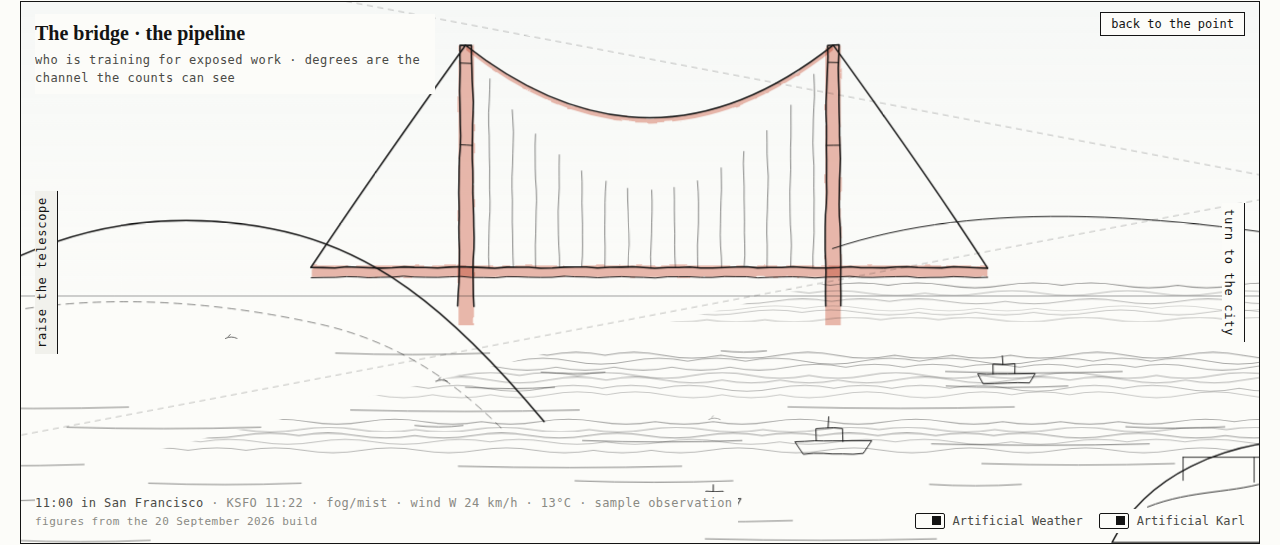
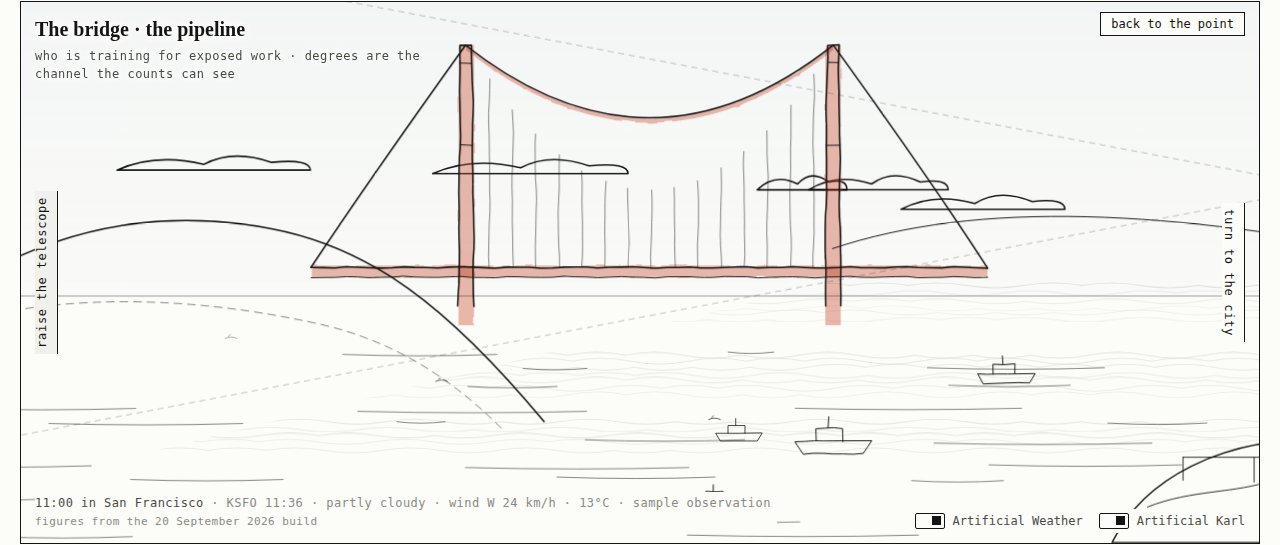
Front page: the city on the horizon, City Hall with the dome alone, the house behind it with trees in front, Sutro's legs the taller half, the car across the city front, boats in open water, the caption without its box, the sky to the top

diff --git a/docs/mockup/index.html b/docs/mockup/index.html
@@ -112,7 +112,8 @@ header.top{display:flex;align-items:baseline;justify-content:space-between;gap:1
 .stamp .obs{font-size:12px}
 .home{position:absolute;right:14px;top:10px;font-family:var(--mono);font-size:12px;background:var(--paper);border:1px solid var(--ink);color:var(--ink);padding:4px 10px;cursor:pointer}
 .home:hover{background:var(--wash)}
-.caption{position:absolute;left:14px;top:12px;max-width:min(48ch,62%);text-align:left;pointer-events:none;background:var(--paper);padding:4px 10px 7px 0}
+.caption{position:absolute;left:14px;top:12px;max-width:min(48ch,62%);text-align:left;pointer-events:none}
+.caption h1,.caption p{text-shadow:0 0 3px var(--paper),0 0 6px var(--paper),0 0 10px var(--paper),0 0 14px var(--paper)}
 .caption h1{font-family:var(--display);font-size:20px;font-weight:600;margin:0;color:var(--ink)}
 .caption p{font-family:var(--mono);font-size:12px;color:var(--ink-2);margin:3px 0 0;letter-spacing:.04em;line-height:1.5}
 
@@ -216,6 +217,7 @@ header.top{display:flex;align-items:baseline;justify-content:space-between;gap:1
     <svg class="pan" id="L-lights" viewBox="0 0 1600 700" aria-hidden="true" style="transform:translateX(-100%) scale(1)"><g id="lights" class="scene"></g></svg>
     <svg class="pan" id="L-water" viewBox="0 0 1600 700" aria-hidden="true" style="transform:translateX(-100%) scale(1)"><g class="scene"><g id="water" class="hair"></g><g id="fog" class="fog" mask="url(#fogmask)"></g></g></svg>
     <!-- foreground: the point, the lighthouse, the railing, the viewer at rest -->
+    <svg id="L-life" viewBox="0 0 1600 700" aria-hidden="true"><g id="life" class="life scene"></g></svg>
     <svg class="fg" id="L-fg" viewBox="0 0 1600 700" role="group" aria-label="An ink drawing of a lighthouse on a headland. Turn to the city or the bridge, or raise the coin telescope to look at the valley.">
       <g id="fg" class="scene">
         <path d="M560 700 C 600 620, 690 590, 760 585 C 830 580, 880 600, 930 610 C 980 620, 1040 660, 1060 700 Z" style="fill:var(--paper)"/>
@@ -256,7 +258,6 @@ header.top{display:flex;align-items:baseline;justify-content:space-between;gap:1
         <g class="viewer down" id="viewer-big"></g>
       </g>
     </svg>
-    <svg id="L-life" viewBox="0 0 1600 700" aria-hidden="true"><g id="life" class="life scene"></g></svg>
 
     <div class="caption" id="caption"><h1 id="cap-h">Three views from one point</h1><p id="cap-p">choose a view · the beam turns to it</p></div>
     <button class="edge left" id="edge-left" hidden><span></span></button>
@@ -317,7 +318,7 @@ header.top{display:flex;align-items:baseline;justify-content:space-between;gap:1
   const el = (tag, attrs={}, parent) => { const n = document.createElementNS(NS, tag); for (const k in attrs) n.setAttribute(k, attrs[k]); if (parent) parent.appendChild(n); return n; };
   function rng(seed){ let s = seed; return () => (s = (s * 16807) % 2147483647) / 2147483647; }
   const W = 4800, HOME = 1600;            // panorama width; the point sits in the middle third
-  const CH = 780, HYD = 1300;             // in the city third: City Hall's x, and the hydrant's on the shore
+  const CH = 780, HYD = 1150;             // in the city third: City Hall's x, and the hydrant's on the shore
 
   /* ---------- line work ---------- */
   function water(g, x0, x1, y0, y1, seed, dens){
@@ -364,7 +365,7 @@ header.top{display:flex;align-items:baseline;justify-content:space-between;gap:1
   function domePath(x, base, w, h){ return `M ${x-w/2} ${base} C ${x-w/2} ${base-h*0.9}, ${x-w/2+w*0.15} ${base-h}, ${x} ${base-h} C ${x+w/2-w*0.15} ${base-h}, ${x+w/2} ${base-h*0.9}, ${x+w/2} ${base} Z`; }
   function domeHalf(x, base, w, h, side){ const e = x + side*w/2, c = x + side*(w/2 - w*0.15); return `M ${e} ${base} C ${e} ${base-h*0.9}, ${c} ${base-h}, ${x} ${base-h} L ${x} ${base} Z`; }
   function cityhall(g, x, gy){
-    el("path", {d:`M ${x-60} ${gy} L ${x-60} ${gy-22} L ${x+60} ${gy-22} L ${x+60} ${gy}`}, g);
+    el("path", {d:`M ${x-60} ${gy} L ${x-60} ${gy-22} L ${x+60} ${gy-22} L ${x+60} ${gy} Z`, style:"fill:var(--paper)"}, g);
     for (let c=x-52; c<=x+52; c+=8) if (Math.abs(c-x) > 16) el("path", {d:`M${c} ${gy-4} L ${c} ${gy-18}`, class:"hair"}, g);
     el("path", {d:`M ${x-14} ${gy} L ${x-14} ${gy-26} L ${x} ${gy-32} L ${x+14} ${gy-26} L ${x+14} ${gy} M ${x-8} ${gy-4} L ${x-8} ${gy-22} M ${x} ${gy-4} L ${x} ${gy-24} M ${x+8} ${gy-4} L ${x+8} ${gy-22}`, class:"thin"}, g);
     el("path", {d:`M ${x-22} ${gy-22} L ${x-22} ${gy-44} L ${x+22} ${gy-44} L ${x+22} ${gy-22}`, class:"thin"}, g);
@@ -408,7 +409,7 @@ header.top{display:flex;align-items:baseline;justify-content:space-between;gap:1
 
   /* ---------- the three thirds ---------- */
   const far = $("#far"), washes = $("#washes"), waterG = $("#water"), fogG = $("#fog");
-  el("path", {d:`M 0 340 L ${W} 340`, class:"hair"}, waterG);
+  el("path", {d:`M 0 340 L ${HOME*2+30} 340`, class:"hair"}, waterG);   // the horizon, up to where the city stands on it
   const waterA = el("g", {class:"water"}, waterG), waterB = el("g", {class:"water b"}, waterG), waterC = el("g", {class:"water c"}, waterG);
   water(waterA, 0, W, 400, 690, 3, 58); water(waterB, 0, W, 416, 690, 4, 58); water(waterC, 0, W, 432, 690, 8, 58);
   // crests: short marks that surface and go, out of step with each other
@@ -430,7 +431,7 @@ header.top{display:flex;align-items:baseline;justify-content:space-between;gap:1
 
   // middle third: the far city as seen from the point (x 1600..3200), faint
   (function farCity(g, ox){
-    const s = el("g", {transform:`translate(${ox+1020},300) scale(.55)`, class:"thin"}, g);
+    const s = el("g", {transform:`translate(${ox+1020},207) scale(.55)`, class:"thin"}, g);
     skyline(s, 250, false); s.querySelectorAll("path").forEach(p=>{ p.classList.remove("hair"); p.classList.add("thin"); });
     // the Gate's near tower and the fall of its cable, at the left edge of the point's view
     el("path", {d:`M ${ox+40} 400 L ${ox+44} 150 L ${ox+62} 150 L ${ox+66} 400 M ${ox+40} 200 L ${ox+66} 200 M ${ox+42} 260 L ${ox+64} 260`, class:"thin"}, g);
@@ -446,8 +447,8 @@ header.top{display:flex;align-items:baseline;justify-content:space-between;gap:1
     const sx = ox+700, sy = baseY-118;
     // Sutro: three masts, the outer pair upright at the top, pinched to a waist, splayed to the feet, tied by struts
     const H = 100;
-    el("path", {d:`M${sx-14} ${sy-H} L ${sx-14} ${sy-H*0.62} L ${sx-5} ${sy-H*0.38} L ${sx-22} ${sy} M${sx} ${sy-H-8} L ${sx} ${sy} M${sx+14} ${sy-H} L ${sx+14} ${sy-H*0.62} L ${sx+5} ${sy-H*0.38} L ${sx+22} ${sy}`, class:"thin"}, g);
-    for (const [f, hw] of [[0.92, 14], [0.62, 14], [0.38, 5], [0.14, 17]]) el("path", {d:`M${sx-hw} ${sy-H*f} L ${sx+hw} ${sy-H*f}`, class:"hair"}, g);
+    el("path", {d:`M${sx-10} ${sy-H} L ${sx-10} ${sy-H*0.55} L ${sx-6} ${sy-H*0.45} L ${sx-27} ${sy} M${sx} ${sy-H-8} L ${sx} ${sy} M${sx+10} ${sy-H} L ${sx+10} ${sy-H*0.55} L ${sx+6} ${sy-H*0.45} L ${sx+27} ${sy}`, class:"thin"}, g);
+    for (const [f, hw] of [[0.94, 10], [0.72, 10], [0.5, 6], [0.22, 17]]) el("path", {d:`M${sx-hw} ${sy-H*f} L ${sx+hw} ${sy-H*f}`, class:"hair"}, g);
     suspension(g, ox+60, ox+250, baseY-34, 130, 90);
     el("path", {d:`M ${ox+560} ${baseY-30} L ${ox+600} ${baseY-44} L ${ox+640} ${baseY-30} M ${ox+596} ${baseY-44} L ${ox+596} ${baseY-60} L ${ox+606} ${baseY-60} L ${ox+606} ${baseY-44}`, class:"thin"}, g);
     const towers = [[860,110,26,1],[892,150,24,1],[920,80,20,0],[946,200,30,1],[982,260,34,1],[1022,180,26,1],[1054,150,22,1],[1082,120,28,0],[1116,96,22,1],[1144,140,26,1],[1176,70,20,0]];
@@ -457,10 +458,11 @@ header.top{display:flex;align-items:baseline;justify-content:space-between;gap:1
     // City Hall, and Hayes Valley just west of it: Patricia's Green with its trees, and the red house over the green
     // City Hall and Hayes Valley sit west of the towers, under Sutro, on the shore's register: the dome, the green with its trees, and the red house over the green
     const hv = ox+CH, gy = baseY-8;
+    // the house over the green: two storeys, six windows across, a little behind City Hall, with the trees in front of it
+    el("path", {d:`M ${hv-96} ${gy} L ${hv-96} ${gy-16} L ${hv-56} ${gy-16} L ${hv-56} ${gy}`, class:"thin"}, g);
+    for (let r=0; r<2; r++) for (let c=0; c<6; c++) el("path", {d:`M${hv-93+c*6.4} ${gy-12+r*6.5} l 3.4 0`, class:"hair"}, g);
     cityhall(g, hv, gy);
-    // the house over the green: three storeys, six windows across, west of City Hall
-    el("path", {d:`M ${hv-112} ${gy} L ${hv-112} ${gy-24} L ${hv-72} ${gy-24} L ${hv-72} ${gy}`, class:"thin"}, g);
-    for (let r=0; r<3; r++) for (let c=0; c<6; c++) el("path", {d:`M${hv-109+c*6.4} ${gy-19+r*6.5} l 3.4 0`, class:"hair"}, g);
+    for (const x of [hv-104, hv-90, hv-76]) el("path", {d:`M${x} ${gy} q 0 -12 7 -14 q 7 2 7 14 z M${x+7} ${gy} l 0 3`, class:"thin"}, g);
     // the hydrant on the Embarcadero, past the Ferry Building, where the robotaxi meets it
     el("path", {d:`M ${ox+HYD-3} ${gy} L ${ox+HYD-3} ${gy-14} Q ${ox+HYD} ${gy-18} ${ox+HYD+3} ${gy-14} L ${ox+HYD+3} ${gy} M ${ox+HYD-6} ${gy-9} L ${ox+HYD+6} ${gy-9} M ${ox+HYD-3} ${gy-5} L ${ox+HYD+3} ${gy-5}`, class:"thin"}, g);
     // Ferry Building on the waterfront
@@ -470,16 +472,14 @@ header.top{display:flex;align-items:baseline;justify-content:space-between;gap:1
     el("circle", {cx:ox+1240, cy:baseY-84, r:5, class:"thin"}, g);
     if (colour){
       tint(washes, domePath(hv, gy-44, 44, 24), "var(--glass)").style.opacity = ".3";                               // the dome, grey-blue
-      tintRect(washes, hv-3, gy-82, 6, 14, "var(--gold)");                                                          // the lantern's gold
-      tintRect(washes, hv-60, gy-22, 120, 22, "var(--cream)").style.opacity = ".3";                                 // the stone
-      tintRect(washes, hv-111, gy-23, 38, 23, "var(--rose)");                                                       // the house over the green
+      tintRect(washes, hv-95, gy-15, 38, 15, "var(--rose)");                                                        // the house over the green
       tintRect(washes, ox+1191, baseY-29, 98, 21, "var(--cream)");                                                                // the Ferry Building
       tintRect(washes, ox+1233, baseY-95, 14, 66, "var(--cream)");
       tintRect(washes, ox+983, baseY-267, 32, 259, "var(--glass)").style.opacity = ".12";                                          // the tallest tower
     }
   }
-  skyline(far, 400, true, HOME*2);
-  water(waterA, HOME*2, W, 440, 690, 5, 54); water(waterB, HOME*2, W, 456, 690, 6, 54); water(waterC, HOME*2, W, 472, 690, 9, 54);
+  skyline(far, 348, true, HOME*2);
+  water(waterA, HOME*2, W, 362, 690, 5, 54); water(waterB, HOME*2, W, 378, 690, 6, 54); water(waterC, HOME*2, W, 394, 690, 9, 54);
 
   // the lighthouses: one in the foreground for the point, and the same tower drawn at the edges of the panorama
   lighthouse($("#lh"), 800, 585, 330);
@@ -517,10 +517,10 @@ header.top{display:flex;align-items:baseline;justify-content:space-between;gap:1
     const grid = el("g", {class:"nightlight"}, LIGHTS); const r = rng(59);
     for (let i=0;i<4;i++) for (let j=0;j<5;j++){ const b = el("rect", {x:ox+986+i*7, y:baseY-286+j*6, width:5, height:4, class:"crownblock", style:`fill:#9FB7C9;stroke:none`}, grid); b.style.animationDelay = (-r()*9).toFixed(1) + "s"; }
     // the same lights, small, in the far city seen from the point
-    const fx = HOME+1020+CH*.55, fb = 300+(250-8-44)*.55;                                             // the far dome, drawn at .55 on a base of 250
+    const fx = HOME+1020+CH*.55, fb = 207+(250-8-44)*.55;                                             // the far dome, drawn at .55 on a base of 250
     tint(LIGHTS, domeHalf(fx, fb, 44*.55, 24*.55, -1), ca).classList.add("nightlight");
     tint(LIGHTS, domeHalf(fx, fb, 44*.55, 24*.55, 1), cb).classList.add("nightlight");
-    tintRect(LIGHTS, HOME+1020+983*.55, 300+(250-290)*.55, 18, 16, "#9FB7C9").classList.add("nightlight");   // the far crown
+    tintRect(LIGHTS, HOME+1020+983*.55, 207+(250-290)*.55, 18, 16, "#9FB7C9").classList.add("nightlight");   // the far crown
   }
   drawLights(new Date());
 
@@ -792,8 +792,8 @@ header.top{display:flex;align-items:baseline;justify-content:space-between;gap:1
   const sky = $("#sky");
   // The sky's own colour: the faintest wash, blue by day, warm at the horizon around dawn and dusk, a deep
   // blue at night. Each is a pair of stops keyed to the sun's altitude and blended between the keys.
-  const SKYKEYS = [[-18, ["#1B2238", .28, "#1B2238", .1]], [-7, ["#5D5F86", .16, "#E9A27A", .14]], [-1, ["#B4B0CF", .14, "#F2B48C", .22]],
-                   [6, ["#BFD3E6", .12, "#F4C9A6", .1]], [16, ["#BFD3E6", .1, "#DCE7EF", .02]]];
+  const SKYKEYS = [[-18, ["#1B2238", .3, "#1B2238", .12]], [-7, ["#7A7CA6", .2, "#E9A27A", .16]], [-1, ["#C4BEDD", .2, "#F2B48C", .22]],
+                   [6, ["#BFD3E6", .16, "#F4C9A6", .1]], [16, ["#BFD3E6", .16, "#DCE7EF", .06]]];
   function hexLerp(a, b, t){ const A = a.match(/\w\w/g).map(h=>parseInt(h,16)), B = b.match(/\w\w/g).map(h=>parseInt(h,16)); return "#" + A.map((v,i)=>Math.round(v + (B[i]-v)*t).toString(16).padStart(2,"0")).join(""); }
   function skyColour(sun){
     const a = Math.max(SKYKEYS[0][0], Math.min(SKYKEYS[SKYKEYS.length-1][0], sun.alt)); let i = 0; while (i < SKYKEYS.length-2 && a > SKYKEYS[i+1][0]) i++;
@@ -908,22 +908,22 @@ header.top{display:flex;align-items:baseline;justify-content:space-between;gap:1
     robotaxi(){ if (stage.dataset.view !== "city") return EVENTS.gull();
       const z = R.city.z, vx = x => 800 + z*(x-800), vy = y => 175 + z*(y-175);   // the city leans in about a point a quarter down, so the shore does too
       // it comes in from the right along the Embarcadero, past the Ferry Building, and meets the hydrant there
-      const g = el("g", {class:"thin"}, life); const S = 1.05*z; const y = vy(392) - 3*S; const hx = vx(HYD), x0 = 1700;
+      const g = el("g", {class:"thin"}, life); const S = 1.05*z; const y = vy(340) - 3*S; const hx = vx(HYD), x0 = -80;
       // a small car with its sensor dome, running the waterfront toward the hydrant by the Ferry Building
       const car = el("g", {transform:`scale(${S})`}, g);
       el("path", {d:"M-16 0 L 16 0 L 16 -8 L 10 -14 L -8 -14 L -16 -8 Z M-10 0 a 3 3 0 1 0 6 0 M4 0 a 3 3 0 1 0 6 0 M-2 -14 L -2 -18 a 4 3 0 1 1 8 0 L 6 -14 M-8 -14 L -6 -8 M 10 -14 L 8 -8", class:"thin"}, car);
       const dome = el("circle", {cx:2, cy:-18, r:1.2, class:"solid"}, car); let d = 0; const spin = setInterval(()=>{ dome.setAttribute("cx", 2 + Math.cos(d+=.6)*3); }, 80);
       // the water, from the drawn hydrant's cap, pouring toward the car
-      const spout = el("g", {class:"thin", transform:`translate(${hx},${vy(392)}) scale(${z})`}, life); spout.style.opacity = 0;
+      const spout = el("g", {class:"thin", transform:`translate(${hx},${vy(340)}) scale(${-z},${z})`}, life); spout.style.opacity = 0;
       for (let i=0;i<9;i++) el("path", {d:`M0 -17 q ${6 + i*2} ${-14 - i*3} ${14 + i*4} ${-2 + i*2} M${14 + i*4} ${-2 + i*2} l 1 3`}, spout);
-      const stop = hx + 20*S;
-      tween(3400, k=>{ const x = x0 + Math.min(k*1.12, 1)*(stop-x0); const bump = k > .89 ? Math.sin((k-.89)*70)*2.5 : 0; g.setAttribute("transform", `translate(${x+bump},${y})`); if (k > .89) spout.style.opacity = Math.min(1, (k-.89)*12); },
-        ()=>{ tween(2200, k=>{ spout.style.opacity = 1; }, ()=>{ tween(900, k=>{ car.setAttribute("transform", `scale(${S*(1 - 2*k)}, ${S})`); }, ()=>{ tween(2600, k=>{ g.setAttribute("transform", `translate(${stop + k*k*260},${y})`); spout.style.opacity = 1 - k; }, ()=>{ clearInterval(spin); g.remove(); spout.remove(); }); }); }); }); },
+      const stop = hx - 20*S;
+      tween(6000, k=>{ const x = x0 + Math.min(k*1.12, 1)*(stop-x0); const bump = k > .89 ? Math.sin((k-.89)*70)*2.5 : 0; g.setAttribute("transform", `translate(${x+bump},${y})`); if (k > .89) spout.style.opacity = Math.min(1, (k-.89)*12); },
+        ()=>{ tween(2200, k=>{ spout.style.opacity = 1; }, ()=>{ tween(900, k=>{ car.setAttribute("transform", `scale(${S*(1 - 2*k)}, ${S})`); }, ()=>{ tween(3200, k=>{ g.setAttribute("transform", `translate(${stop - k*k*(stop+80)},${y})`); spout.style.opacity = 1 - k; }, ()=>{ clearInterval(spin); g.remove(); spout.remove(); }); }); }); }); },
     gust(){ stage.classList.add("gust"); document.querySelectorAll(".gull").forEach(p=>{ p.style.transition = "transform .8s"; p.style.transform = "rotate(-22deg)"; });
       setTimeout(()=>{ stage.classList.remove("gust"); drawSky(OBS, stage.dataset.view); }, 5000); },
     ferry(){ if (stage.dataset.view !== "bridge") return EVENTS.gull();
       const g = el("g", {class:"thin"}, life); el("path", {d:"M0 0 l -30 0 l 6 10 l 48 0 l 6 -10 z M-14 0 l 0 -10 l 22 0 l 0 10 M-4 -10 l 0 -9"}, g);
-      tween(40000, k=>{ g.setAttribute("transform", `translate(${-60 + k*1720},${470 + Math.sin(k*20)*1.5})`); }, ()=>g.remove()); },
+      tween(34000, k=>{ g.setAttribute("transform", `translate(${700 + k*1000},${560 + Math.sin(k*20)*1.5})`); }, ()=>g.remove()); },
   };
   const WEIGHTS = [["gull",6],["plane",1],["gust",2],["ferry",1],["rocket",1],["robotaxi",1]];
   const WELCOME = { city:"robotaxi", bridge:"ferry", home:"gull", valley:"gull" };
